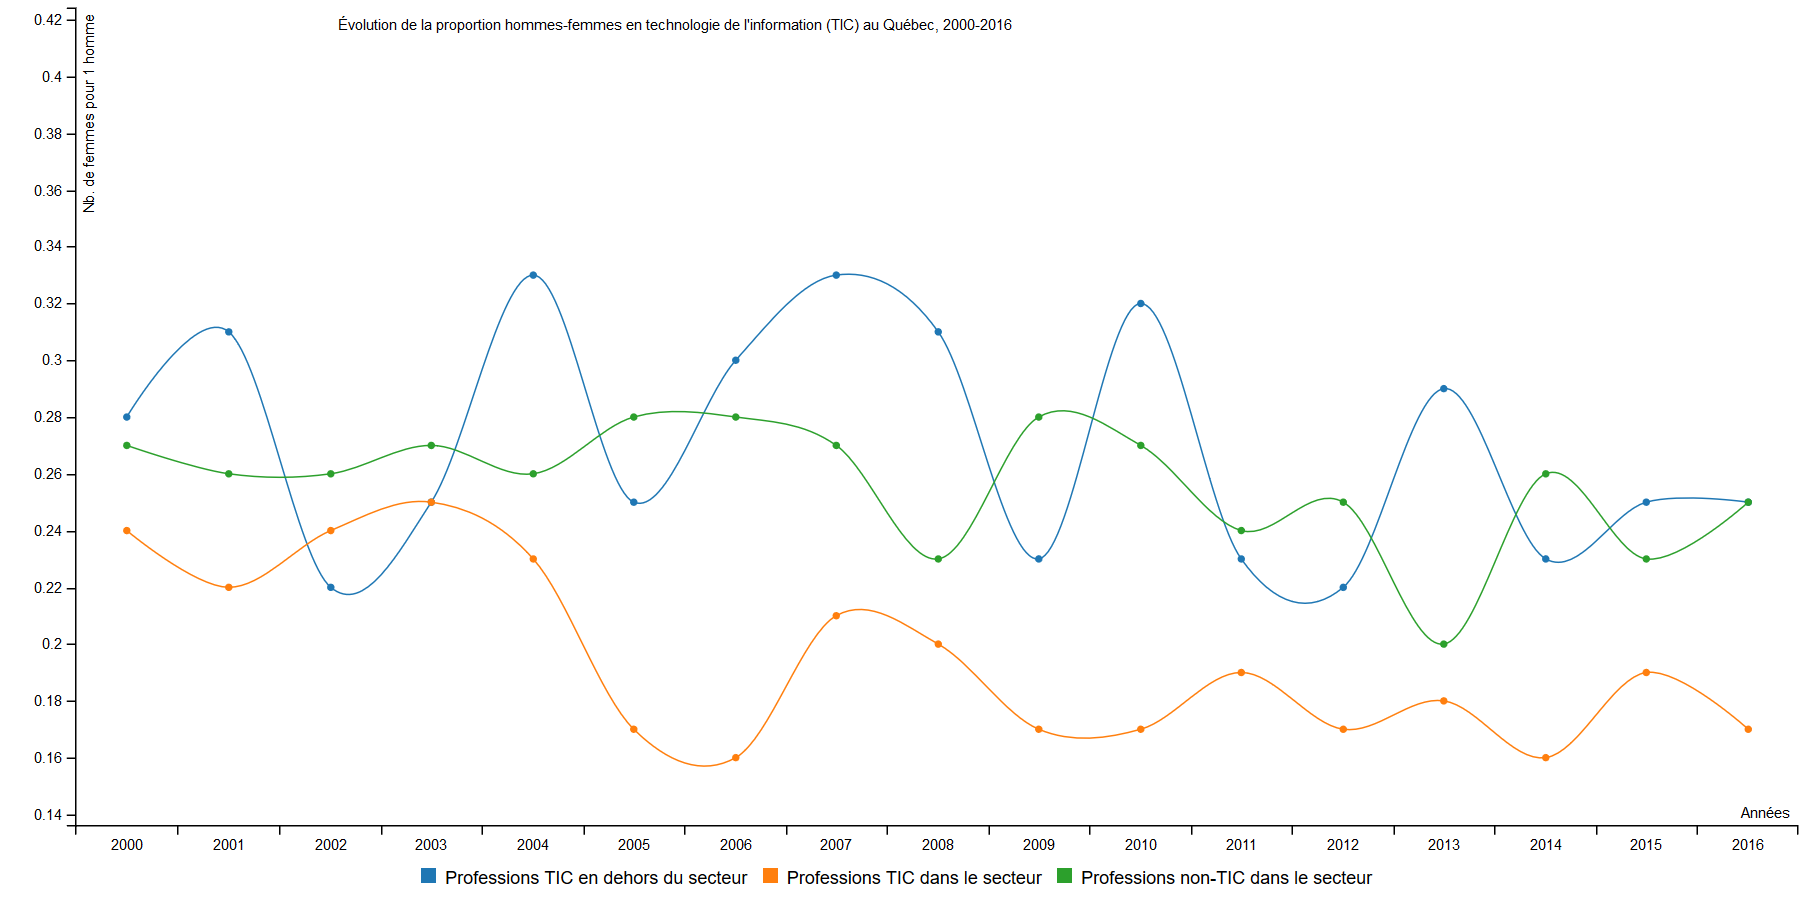
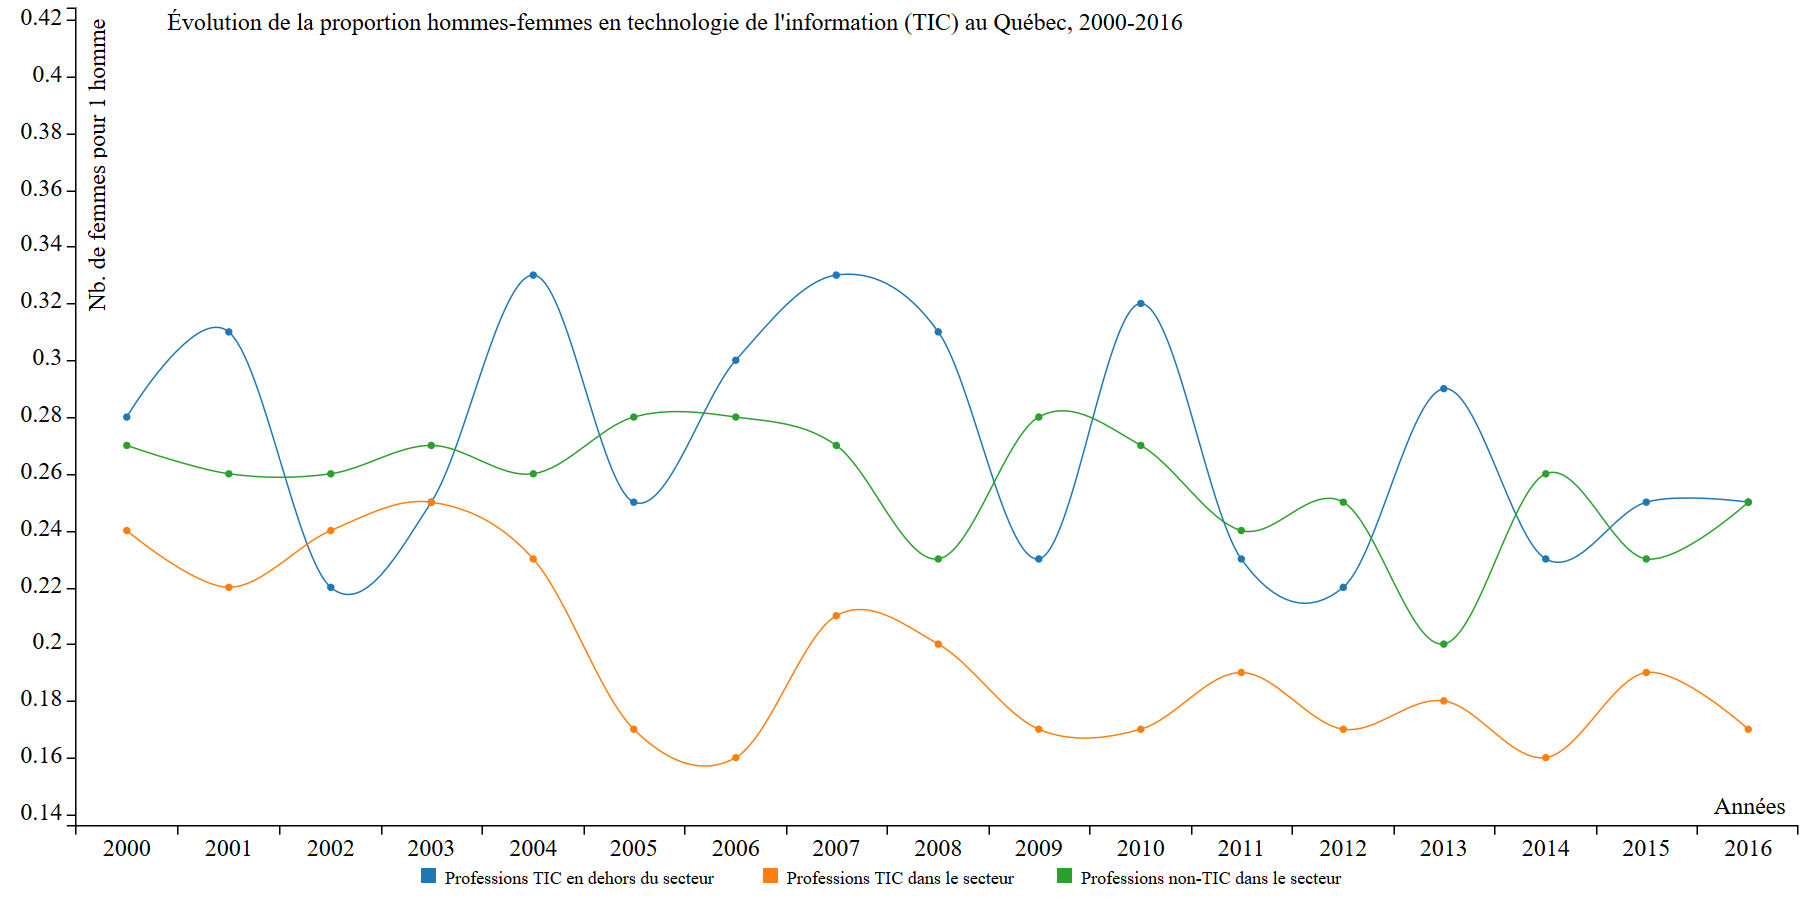
Augment font

diff --git a/femmes/index_1.html b/femmes/index_1.html
@@ -1,0 +1,73 @@
+<!DOCTYPE html>
+<html lang="en">
+<head>
+    <meta charset="UTF-8">
+    <title></title>
+</head>
+<body>
+
+<!-- Load c3.css -->
+<link href="https://cdnjs.cloudflare.com/ajax/libs/c3/0.6.7/c3.css" rel="stylesheet">
+
+<!-- Load d3.js and c3.js -->
+<script src="https://d3js.org/d3.v5.min.js"></script>
+<script src="https://c3js.org/js/c3.min-5f1d26d2.js"></script>
+<div id="chart"></div>
+<script>
+var chart = c3.generate({
+    size: {
+        height: 600,
+        width: 1200
+    },
+    bindto: '#chart',
+    data: {
+	      columns: [
+['Professions TIC en dehors du secteur',0.28,0.31,0.22,0.25,0.33,0.25,0.30,0.33,0.31,0.23,0.32,0.23,0.22,0.29,0.23,0.25,0.25],
+["Professions TIC dans le secteur",0.24,0.22,0.24,0.25,0.23,0.17,0.16,0.21,0.20,0.17,0.17,0.19,0.17,0.18,0.16,0.19,0.17],
+["Professions non-TIC dans le secteur",0.27,0.26,0.26,0.27,0.26,0.28,0.28,0.27,0.23,0.28,0.27,0.24,0.25,0.20,0.26,0.23,0.25]
+
+			],
+	   colors:{
+
+	      	Treatment1: '#b96554',
+	      	Treatment2: '#66cdaa',
+			Treatment3: '#d3ffce',
+			
+        },
+	    type: 'spline',
+	    area: {
+			zerobased: false
+		}
+    },
+    axis: {
+        x: {
+            type:'category',
+            label : 'Années',
+            categories:['2000', '2001', '2002', '2003', '2004', '2005', '2006', '2007', '2008', '2009','2010', '2011', '2012',
+'2013', '2014', '2015', '2016'] 
+},
+        y: {
+        		label : "Nb. de femmes pour 1 homme",
+            max: 0.4
+            // Range includes padding, set 0 if no padding needed
+            // padding: {top:0, bottom:0}
+        }
+}       
+});
+
+d3.select("svg").append("text")
+    .attr("x", 450 )
+    .attr("y", 20)
+    .style("text-anchor", "middle")
+    .text("Évolution de la proportion hommes-femmes en technologie de l'information (TIC) au Québec, 2000-2016")
+    
+
+
+  	
+
+
+
+
+</script>
+</body>
+</html>
